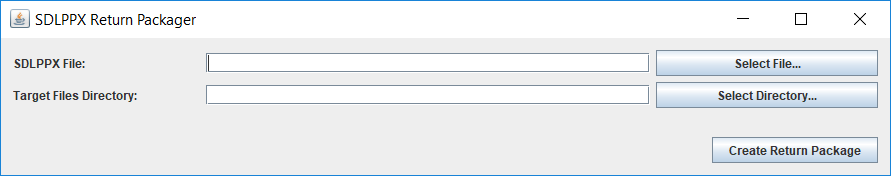
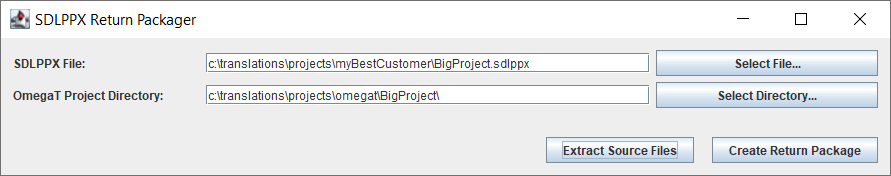
The source files can be extracted from the SDLPPX

diff --git a/src/main/java/net/briac/sdlppx/SDLPPXPackager.java b/src/main/java/net/briac/sdlppx/SDLPPXPackager.java
@@ -16,6 +16,7 @@
  **************************************************************************/
 package net.briac.sdlppx;
 
+import java.io.File;
 import java.io.FileNotFoundException;
 import java.io.IOException;
 import java.io.InputStream;
@@ -61,6 +62,9 @@ import org.xml.sax.SAXException;
  *
  */
 public class SDLPPXPackager {
+    private static final String TARGET_DIR = "target";
+    private static final String SOURCE_DIR = "source";
+
     private static final Logger LOGGER = Logger.getLogger(SDLPPXPackager.class.getName());
 
     private static final String ATTRIBUTE_PACKAGE_TYPE = "PackageType";
@@ -70,17 +74,17 @@ public class SDLPPXPackager {
     }
 
     private final Path sdlPpx;
-    private final Path targetDir;
+    private final Path projectDir;
     private String targetLanguage;
 
-    public SDLPPXPackager(String filename, String targetDir) throws FileNotFoundException {
+    public SDLPPXPackager(String filename, String projectDir) throws FileNotFoundException {
         this.sdlPpx = Paths.get(filename);
-        this.targetDir = Paths.get(targetDir);
+        this.projectDir = Paths.get(projectDir);
         if (!sdlPpx.toFile().exists()) {
             throw new FileNotFoundException("SDLPPX file does not exist.");
         }
-        if (!this.targetDir.toFile().exists()) {
-            throw new FileNotFoundException("Target directory does not exist.");
+        if (!this.projectDir.toFile().exists()) {
+            throw new FileNotFoundException("Project directory does not exist.");
         }
 
     }
@@ -92,6 +96,39 @@ public class SDLPPXPackager {
         } else {
             new SDLPPXPackager(args[0], args[1]).updateSdlppx();
         }
+    }
+
+    public boolean extractSource() throws Exception {
+
+        PathMatcher matcher = FileSystems.getDefault().getPathMatcher("glob:*.sdlproj");
+
+        try (FileSystem zipfs = FileSystems.newFileSystem(sdlPpx, null)) {
+            Stream<Path> sdlProjStream = Files.find(zipfs.getRootDirectories().iterator().next(), 1,
+                    (path, basicFileAttributes) -> matcher.matches(path));
+            Path sdlProj = sdlProjStream.findFirst().get();
+            sdlProjStream.close();
+
+            LOGGER.log(Level.INFO, "SDLProj file: {0}", sdlProj);
+            parseSDLProj(sdlProj, false);
+
+            File sourceDir = new File(projectDir.toFile().getAbsolutePath(), SOURCE_DIR);
+            sourceDir.mkdirs();
+
+            // We assume the target directories are always flat with sdlxliff?
+            Files.find(zipfs.getPath(targetLanguage), 1,
+                    (path, basicFileAttributes) -> path.getFileName().toString().endsWith(".sdlxliff"))
+                    .forEach(actionPath -> {
+                        Path source = Paths.get(sourceDir.getAbsolutePath(), actionPath.getFileName().toString());
+                        LOGGER.log(Level.INFO, "Copy {0} > {1}", new Object[] { actionPath, source });
+                        try {
+                            Files.copy(actionPath, source, StandardCopyOption.REPLACE_EXISTING);
+                        } catch (IOException e) {
+                            e.printStackTrace();
+                        }
+                    });
+        }
+
+        return true;
     }
 
     public boolean updateSdlppx() throws IOException, TransformerConfigurationException, ParserConfigurationException,
@@ -112,19 +149,21 @@ public class SDLPPXPackager {
             sdlProjStream.close();
 
             LOGGER.log(Level.INFO, "SDLProj file: {0}", sdlProj);
-            isUpdated = parseSDLProj(sdlProj);
-            
+            isUpdated = parseSDLProj(sdlProj, true);
+
             // We assume the target directories are always flat with sdlxliff?
-            Files.find(zipfs.getPath(targetLanguage), 1, (path, basicFileAttributes) -> path.getFileName().toString().endsWith(".sdlxliff"))
-                 .forEach(actionPath -> {
-                     Path source = Paths.get(targetDir.toFile().getAbsolutePath(), actionPath.getFileName().toString());
-                     LOGGER.log(Level.INFO, "Replace {0} > {1}", new Object[] {source, actionPath });
-                     try {
-                        Files.copy(source, actionPath, StandardCopyOption.REPLACE_EXISTING);
-                    } catch (IOException e) {
-                        e.printStackTrace();
-                    }
-                 });
+            Files.find(zipfs.getPath(targetLanguage), 1,
+                    (path, basicFileAttributes) -> path.getFileName().toString().endsWith(".sdlxliff"))
+                    .forEach(actionPath -> {
+                        Path source = Paths.get(projectDir.toFile().getAbsolutePath(), TARGET_DIR,
+                                actionPath.getFileName().toString());
+                        LOGGER.log(Level.INFO, "Replace {0} > {1}", new Object[] { source, actionPath });
+                        try {
+                            Files.copy(source, actionPath, StandardCopyOption.REPLACE_EXISTING);
+                        } catch (IOException e) {
+                            e.printStackTrace();
+                        }
+                    });
         }
         if (isUpdated) {
             Path sdlRpx = sdlPpx.resolveSibling(sdlPpx.getFileName().toString().replaceAll("\\.sdlppx$", ".sdlrpx"));
@@ -136,8 +175,9 @@ public class SDLPPXPackager {
         return false;
     }
 
-    private boolean parseSDLProj(final Path sdlProj) throws ParserConfigurationException, SAXException,
-            TransformerConfigurationException, TransformerFactoryConfigurationError, IOException, TransformerException {
+    private boolean parseSDLProj(final Path sdlProj, final boolean doUpdate)
+            throws ParserConfigurationException, SAXException, TransformerConfigurationException,
+            TransformerFactoryConfigurationError, IOException, TransformerException {
 
         final DocumentBuilderFactory docFactory = DocumentBuilderFactory.newInstance();
         final DocumentBuilder docBuilder = docFactory.newDocumentBuilder();
@@ -152,13 +192,16 @@ public class SDLPPXPackager {
 
         // Language code, obviously we don't deal with multiple target languages.
         // /PackageProject/LanguageDirections/LanguageDirection/@TargetLanguageCode="fr-FR"
-        targetLanguage = ((Element) ((Element) ((Element) doc
-                .getElementsByTagName("PackageProject").item(0))
-                .getElementsByTagName("LanguageDirections").item(0))
-                .getElementsByTagName("LanguageDirection").item(0)).getAttribute("TargetLanguageCode");
-        
+        targetLanguage = ((Element) ((Element) ((Element) doc.getElementsByTagName("PackageProject").item(0))
+                .getElementsByTagName("LanguageDirections").item(0)).getElementsByTagName("LanguageDirection").item(0))
+                        .getAttribute("TargetLanguageCode");
+
         LOGGER.log(Level.INFO, "Target Language: {0}", targetLanguage);
-        
+
+        if (!doUpdate) {
+            return false;
+        }
+
         final Node attrPackageType = doc.getDocumentElement().getAttributeNode(ATTRIBUTE_PACKAGE_TYPE);
         final PackageTypes packageType = PackageTypes.valueOf(attrPackageType.getTextContent());
         switch (packageType) {
@@ -174,7 +217,6 @@ public class SDLPPXPackager {
         }
 
         return false;
-
     }
 
     private void updateDoc(final Path sdlProj, final Document doc) throws TransformerFactoryConfigurationError,

diff --git a/src/main/java/net/briac/sdlppx/SDLPPXPackagerWindow.java b/src/main/java/net/briac/sdlppx/SDLPPXPackagerWindow.java
@@ -58,6 +58,7 @@ public class SDLPPXPackagerWindow extends javax.swing.JFrame {
      * regenerated by the Form Editor.
      */
     // <editor-fold defaultstate="collapsed" desc="Generated Code">//GEN-BEGIN:initComponents
+    @SuppressWarnings("serial")
     private void initComponents() {
 
         sdlppxFile = new javax.swing.JTextField();
@@ -100,11 +101,10 @@ public class SDLPPXPackagerWindow extends javax.swing.JFrame {
         targetButton = new javax.swing.JButton();
         createPackageButton = new javax.swing.JButton();
         statusLabel = new javax.swing.JLabel();
+        extractSourceButton = new javax.swing.JButton();
 
         setDefaultCloseOperation(javax.swing.WindowConstants.EXIT_ON_CLOSE);
         setTitle(bundle.getString("SDLPPX_TITLE")); // NOI18N
-
-        sdlppxFile.setToolTipText("");
 
         sdlppxButton.setText(bundle.getString("SDLPPX_FILE_SELECT")); // NOI18N
         sdlppxButton.addActionListener(new java.awt.event.ActionListener() {
@@ -115,11 +115,9 @@ public class SDLPPXPackagerWindow extends javax.swing.JFrame {
 
         sdlppxLabel.setText(bundle.getString("SDLPPX_FILE")); // NOI18N
 
-        targetLabel.setText(bundle.getString("TARGET_DIRECTORY")); // NOI18N
+        targetLabel.setText(bundle.getString("PROJECT_DIRECTORY")); // NOI18N
 
-        targetDir.setToolTipText("");
-
-        targetButton.setText(bundle.getString("TARGET_DIR_SELECT")); // NOI18N
+        targetButton.setText(bundle.getString("PROJECT_DIR_SELECT")); // NOI18N
         targetButton.addActionListener(new java.awt.event.ActionListener() {
             public void actionPerformed(java.awt.event.ActionEvent evt) {
                 targetButtonActionPerformed(evt);
@@ -131,6 +129,14 @@ public class SDLPPXPackagerWindow extends javax.swing.JFrame {
         createPackageButton.addActionListener(new java.awt.event.ActionListener() {
             public void actionPerformed(java.awt.event.ActionEvent evt) {
                 createPackageButtonActionPerformed(evt);
+            }
+        });
+
+        extractSourceButton.setText(bundle.getString("EXTRACT_BUTTON")); // NOI18N
+        extractSourceButton.setActionCommand(bundle.getString("CONVERT_BUTTON")); // NOI18N
+        extractSourceButton.addActionListener(new java.awt.event.ActionListener() {
+            public void actionPerformed(java.awt.event.ActionEvent evt) {
+                extractSourceButtonActionPerformed(evt);
             }
         });
 
@@ -154,7 +160,11 @@ public class SDLPPXPackagerWindow extends javax.swing.JFrame {
                             .addComponent(sdlppxButton, javax.swing.GroupLayout.DEFAULT_SIZE, 222, Short.MAX_VALUE)
                             .addComponent(targetButton, javax.swing.GroupLayout.DEFAULT_SIZE, javax.swing.GroupLayout.DEFAULT_SIZE, Short.MAX_VALUE)))
                     .addGroup(layout.createSequentialGroup()
-                        .addComponent(statusLabel, javax.swing.GroupLayout.DEFAULT_SIZE, javax.swing.GroupLayout.DEFAULT_SIZE, Short.MAX_VALUE)
+                        .addGroup(layout.createParallelGroup(javax.swing.GroupLayout.Alignment.LEADING)
+                            .addComponent(statusLabel, javax.swing.GroupLayout.DEFAULT_SIZE, javax.swing.GroupLayout.DEFAULT_SIZE, Short.MAX_VALUE)
+                            .addGroup(layout.createSequentialGroup()
+                                .addGap(0, 0, Short.MAX_VALUE)
+                                .addComponent(extractSourceButton)))
                         .addGap(18, 18, 18)
                         .addComponent(createPackageButton)))
                 .addContainerGap())
@@ -174,7 +184,9 @@ public class SDLPPXPackagerWindow extends javax.swing.JFrame {
                     .addComponent(targetButton))
                 .addPreferredGap(javax.swing.LayoutStyle.ComponentPlacement.RELATED, 29, Short.MAX_VALUE)
                 .addGroup(layout.createParallelGroup(javax.swing.GroupLayout.Alignment.LEADING)
-                    .addComponent(createPackageButton, javax.swing.GroupLayout.Alignment.TRAILING)
+                    .addGroup(javax.swing.GroupLayout.Alignment.TRAILING, layout.createParallelGroup(javax.swing.GroupLayout.Alignment.BASELINE)
+                        .addComponent(createPackageButton)
+                        .addComponent(extractSourceButton))
                     .addComponent(statusLabel, javax.swing.GroupLayout.Alignment.TRAILING))
                 .addContainerGap())
         );
@@ -221,22 +233,42 @@ public class SDLPPXPackagerWindow extends javax.swing.JFrame {
 
     private void createPackageButtonActionPerformed(java.awt.event.ActionEvent evt) {//GEN-FIRST:event_createPackageButtonActionPerformed
         boolean isOk = false;
+        String errMsg = null;
         try {
             SDLPPXPackager sp = new SDLPPXPackager(sdlppxFile.getText(), targetDir.getText());
             isOk = sp.updateSdlppx();
         } catch (IOException | ParserConfigurationException | SAXException | TransformerFactoryConfigurationError
                 | TransformerException e) {
-            e.printStackTrace();
+            errMsg = e.getLocalizedMessage();
         }
         if (isOk) {
             JOptionPane.showMessageDialog(this, bundle.getString("PACKAGE_CREATED"), bundle.getString("SDLPPX_TITLE"),
                     JOptionPane.INFORMATION_MESSAGE);
         }
         else {
-            JOptionPane.showMessageDialog(this, bundle.getString("PACKAGE_ERROR"), bundle.getString("SDLPPX_TITLE"),
+            JOptionPane.showMessageDialog(this, String.format(bundle.getString("PACKAGE_ERROR"), errMsg), bundle.getString("SDLPPX_TITLE"),
                     JOptionPane.ERROR_MESSAGE);
         }
     }//GEN-LAST:event_createPackageButtonActionPerformed
+
+    private void extractSourceButtonActionPerformed(java.awt.event.ActionEvent evt) {//GEN-FIRST:event_extractSourceButtonActionPerformed
+        boolean isOk = false;
+        String errMsg = null;
+        try {
+            SDLPPXPackager sp = new SDLPPXPackager(sdlppxFile.getText(), targetDir.getText());
+            isOk = sp.extractSource();
+        } catch (Exception e) {
+            errMsg = e.getLocalizedMessage();
+        }
+        if (isOk) {
+            JOptionPane.showMessageDialog(this, bundle.getString("SOURCE_EXTRACTED"), bundle.getString("SDLPPX_TITLE"),
+                    JOptionPane.INFORMATION_MESSAGE);
+        }
+        else {
+            JOptionPane.showMessageDialog(this, String.format(bundle.getString("SOURCE_ERROR"), errMsg), bundle.getString("SDLPPX_TITLE"),
+                    JOptionPane.ERROR_MESSAGE);
+        }
+    }//GEN-LAST:event_extractSourceButtonActionPerformed
 
     /**
      * @param args the command line arguments
@@ -276,6 +308,7 @@ public class SDLPPXPackagerWindow extends javax.swing.JFrame {
     
     // Variables declaration - do not modify//GEN-BEGIN:variables
     private javax.swing.JButton createPackageButton;
+    private javax.swing.JButton extractSourceButton;
     private javax.swing.JButton sdlppxButton;
     private javax.swing.JTextField sdlppxFile;
     private javax.swing.JLabel sdlppxLabel;

diff --git a/README.md b/README.md
@@ -1,6 +1,7 @@
 # SDLPPX Packager
 
 This utility is used to create Trados Return Package files (`SDLRPX`) from a `SDLPPX` file. Of course, it assumes you already have translated the content of the `SDLXLIFF` files inside.
+It can also extract the source files inside a `SDLPPX` project and copy them to a `source/` directory (in an OmegaT project, for instance). 
 
 ![alt text](screenshot.png "SDLPPX Packager Screenshot")
 
